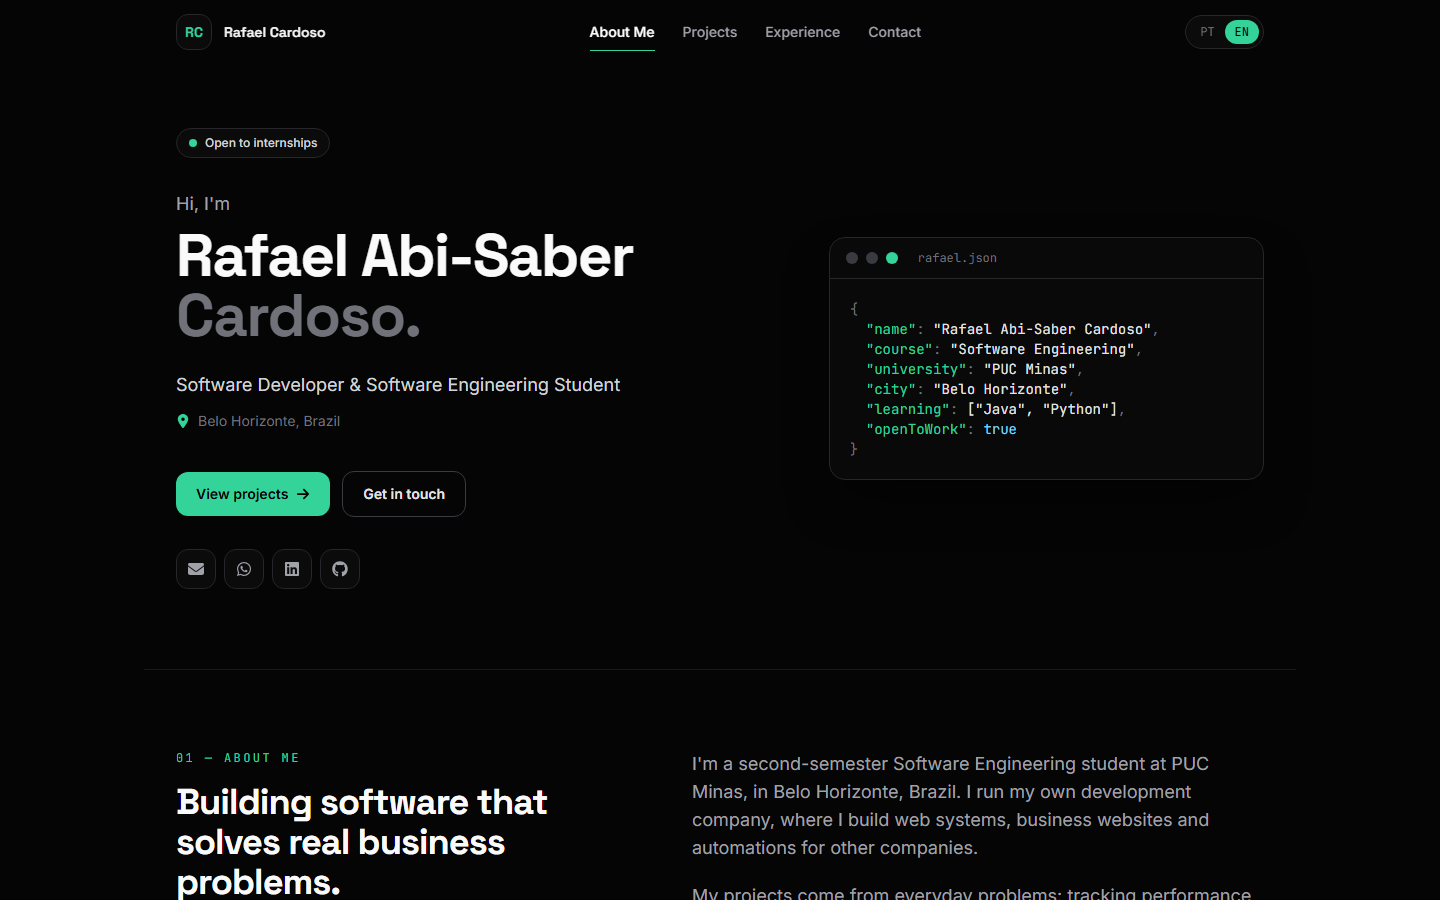
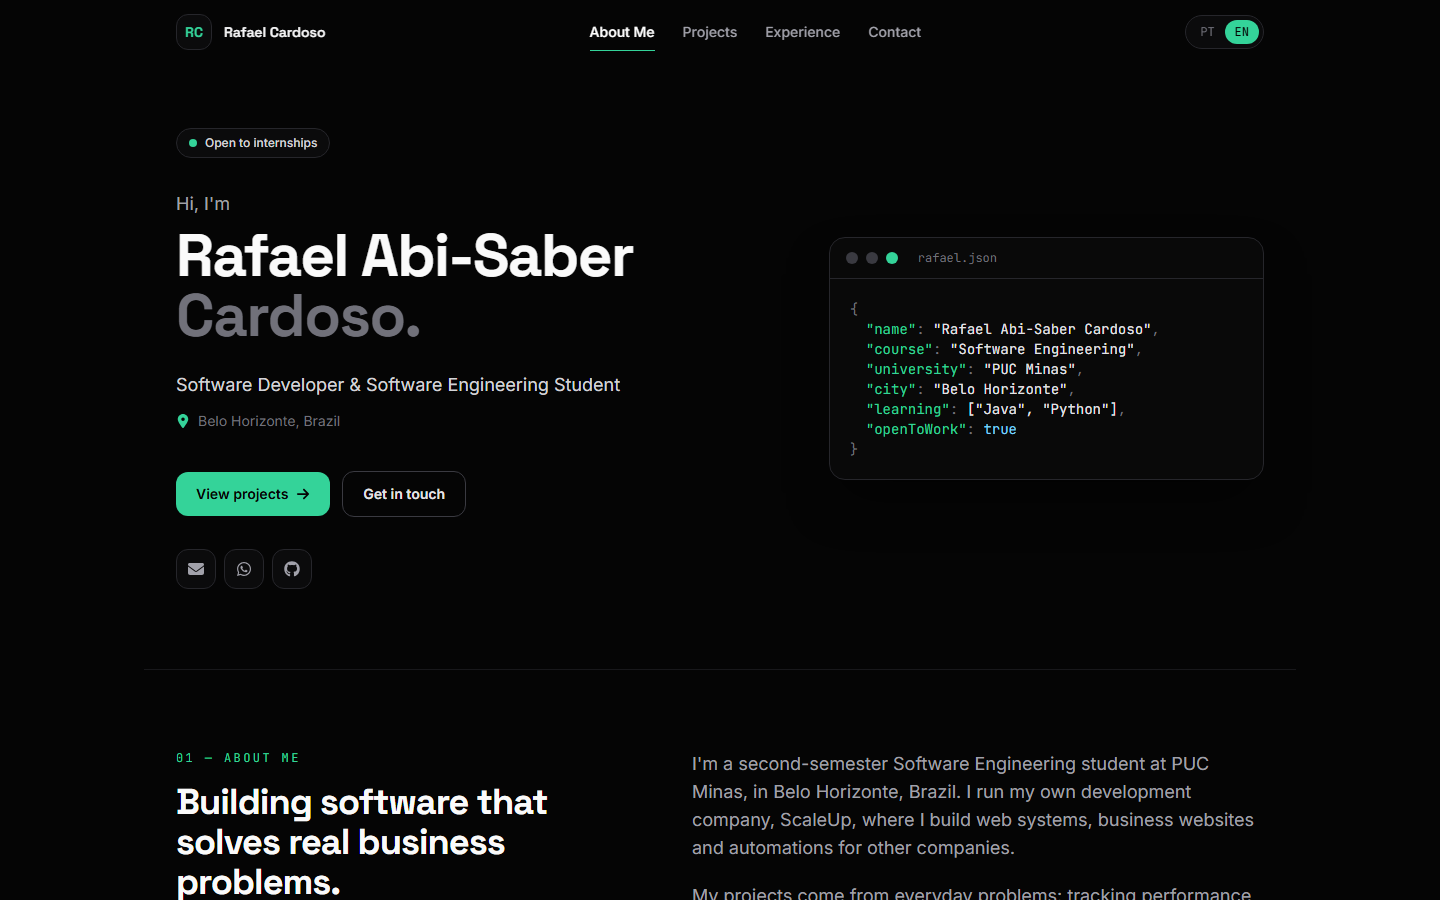
feat: adiciona ScaleUp e remove LinkedIn dos contatos

Changed region(s): [[0.5, 0.9022, 0.875, 0.9644], [0.2188, 0.6222, 0.25, 0.6533]]

diff --git a/src/i18n/translations.js b/src/i18n/translations.js
@@ -21,7 +21,7 @@ export const translations = {
       label: '01 — Sobre Mim',
       title: 'Construindo software que resolve problemas reais de empresas.',
       paragraphs: [
-        'Sou estudante do 2º período de Engenharia de Software na PUC Minas, em Belo Horizonte. Hoje tenho minha própria empresa de desenvolvimento, onde crio sistemas web, sites institucionais e automações para outras empresas.',
+        'Sou estudante do 2º período de Engenharia de Software na PUC Minas, em Belo Horizonte. Hoje tenho minha própria empresa de desenvolvimento, a ScaleUp, onde crio sistemas web, sites institucionais e automações para outras empresas.',
         'Meus projetos nascem de problemas do dia a dia: acompanhar indicadores de desempenho, comparar orçamentos de fornecedores, controlar despesas e eliminar tarefas repetitivas com automações em Python.',
         'Quero me aprofundar em programação, principalmente em Java e Python, e conhecer novas tecnologias de desenvolvimento. Meu objetivo é fazer minha empresa crescer e viver dela, e também busco um estágio para ganhar experiência de mercado e evoluir meus conhecimentos técnicos.',
       ],
@@ -122,7 +122,7 @@ export const translations = {
       label: '01 — About Me',
       title: 'Building software that solves real business problems.',
       paragraphs: [
-        "I'm a second-semester Software Engineering student at PUC Minas, in Belo Horizonte, Brazil. I run my own development company, where I build web systems, business websites and automations for other companies.",
+        "I'm a second-semester Software Engineering student at PUC Minas, in Belo Horizonte, Brazil. I run my own development company, ScaleUp, where I build web systems, business websites and automations for other companies.",
         'My projects come from everyday problems: tracking performance indicators, comparing supplier quotes, managing expenses and removing repetitive work with Python automations.',
         'I want to go deeper into programming, especially Java and Python, and keep learning new development technologies. My goal is to grow my company and make a living from it, and I am also looking for an internship to gain industry experience and strengthen my technical skills.',
       ],

diff --git a/src/data/experiences.js b/src/data/experiences.js
@@ -2,13 +2,13 @@ export const experiences = [
   {
     id: 'empresa',
     type: 'work',
-    organization: { pt: 'Empresa própria de desenvolvimento', en: 'Own software development company' },
+    organization: { pt: 'ScaleUp', en: 'ScaleUp' },
     role: { pt: 'Fundador e Desenvolvedor', en: 'Founder & Developer' },
     period: { pt: '2026 — Atual', en: '2026 — Present' },
     current: true,
     description: {
-      pt: 'Desenvolvo sistemas web, sites institucionais e automações para empresas. Cuido de todo o processo: conversa com o cliente, levantamento de requisitos, design, desenvolvimento, publicação e suporte.',
-      en: 'I build web systems, business websites and automations for companies. I handle the whole process: client meetings, requirements, design, development, deployment and support.',
+      pt: 'Fundei a ScaleUp, minha empresa de desenvolvimento, onde crio sistemas web, sites institucionais e automações para empresas. Cuido de todo o processo: conversa com o cliente, levantamento de requisitos, design, desenvolvimento, publicação e suporte.',
+      en: 'I founded ScaleUp, my software development company, where I build web systems, business websites and automations for companies. I handle the whole process: client meetings, requirements, design, development, deployment and support.',
     },
     tags: ['React', 'JavaScript', 'Python', 'Supabase', 'Vercel'],
   },

diff --git a/src/data/projects.js b/src/data/projects.js
@@ -75,8 +75,8 @@ export const projects = [
     date: '2026-09-10',
     period: { pt: 'Set 2026 — Atual', en: 'Sep 2026 — Present' },
     description: {
-      pt: 'Sites institucionais responsivos que desenvolvo pela minha empresa para apresentar a negócios locais, como clínicas e oficinas: páginas de serviços, perguntas frequentes, botão de WhatsApp, mapa e formulário de contato, publicados na Vercel.',
-      en: 'Responsive business websites my company builds to pitch to local businesses such as clinics and auto shops: service pages, FAQ, WhatsApp button, map and contact form, deployed on Vercel.',
+      pt: 'Sites institucionais responsivos que desenvolvo pela ScaleUp para apresentar a negócios locais, como clínicas e oficinas: páginas de serviços, perguntas frequentes, botão de WhatsApp, mapa e formulário de contato, publicados na Vercel.',
+      en: 'Responsive business websites ScaleUp builds to pitch to local businesses such as clinics and auto shops: service pages, FAQ, WhatsApp button, map and contact form, deployed on Vercel.',
     },
     tech: ['HTML', 'CSS', 'JavaScript', 'PHP', 'Vercel'],
     image: '/projects/sites.gif',

diff --git a/src/data/contacts.js b/src/data/contacts.js
@@ -1,4 +1,4 @@
-import { FaEnvelope, FaGithub, FaLinkedin, FaWhatsapp } from 'react-icons/fa6'
+import { FaEnvelope, FaGithub, FaWhatsapp } from 'react-icons/fa6'
 
 export const contacts = [
   {
@@ -14,13 +14,6 @@ export const contacts = [
     value: '(31) 98467-3144',
     href: 'https://wa.me/5531984673144',
     icon: FaWhatsapp,
-  },
-  {
-    id: 'linkedin',
-    label: 'LinkedIn',
-    value: 'Rafael Abi-Saber Cardoso',
-    href: 'https://www.linkedin.com/search/results/people/?keywords=Rafael%20Abi-Saber%20Cardoso',
-    icon: FaLinkedin,
   },
   {
     id: 'github',

diff --git a/README.md b/README.md
@@ -60,7 +60,7 @@ O site tem quatro páginas, acessadas pelo menu de navegação:
 1. **Sobre Mim:** apresentação em português e inglês, com formação, área de atuação, interesses, objetivos e tecnologias.
 2. **Projetos:** linha do tempo do projeto mais antigo ao mais recente. Cada projeto tem nome, descrição, tecnologias, link para o GitHub e um GIF do projeto em funcionamento.
 3. **Experiências:** experiência profissional, formação e intercâmbio, cada uma com instituição, cargo/atividade, período e descrição.
-4. **Contato:** ícones clicáveis (e-mail, WhatsApp, LinkedIn e GitHub) e formulário com nome, e-mail e mensagem, enviado por e-mail.
+4. **Contato:** ícones clicáveis (e-mail, WhatsApp e GitHub) e formulário com nome, e-mail e mensagem, enviado por e-mail.
 
 **Identidade visual:** tema escuro com base preta (`#050505`), tons de cinza e verde-esmeralda (`#34D399`) como cor de destaque. A tipografia combina *Space Grotesk* (títulos), *Inter* (texto) e *JetBrains Mono* (detalhes técnicos), para um visual limpo, profissional e ligado à área de desenvolvimento.
 
